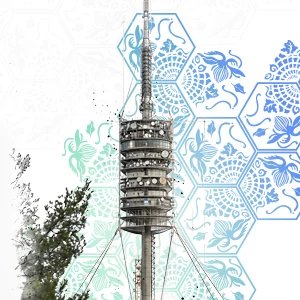
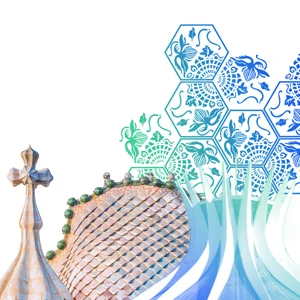
Student Week: chronological thumbs, 2023-27 range, updated copy
Claude-Session: https://claude.ai/code/session_01FyouQdSsVKyt1hEUqojYM4

diff --git a/src/data/projects/event-visual-identity.js b/src/data/projects/event-visual-identity.js
@@ -7,14 +7,14 @@ export default {
   slug: "event-visual-identity",
   name: "Student Week",
   disc: "Event Identity",
-  year: "2023-26",
+  year: "2023-27",
   client: CL,
   role: "Visual direction, concept evolution, identity system",
 
   idea: "Barcelona’s architecture as an identity system.",
   key: "Keep the structure fixed and change only the landmark, so every edition is new and still recognisable.",
   d1: "A recurring event identity built on Barcelona’s architecture. It began with single landmarks and grew into a broader system, keeping the same structural anchors so every edition is recognisably the same event.",
-  d2: "I set the concept and directed its evolution across four editions: Sagrada Família, Park Güell, Casa Batlló with the panot pattern, and a 2026 system that spans several landmarks.",
+  d2: "I set the concept and directed its evolution edition after edition: from Casa Batlló and the panot pattern to a 2026 system that spans several landmarks, and a first look at 2027.",
   out: "Four editions on one system. Each year keeps the structure and adds a new landmark.",
 
   stats: [
@@ -25,10 +25,10 @@ export default {
   cover: { src: "/home/grid/event.webp", alt: "Student Week identity based on Sagrada Família" },
   hero: { src: "/projects/event-identity/hero.webp", alt: "Student Week 2026 identity system" },
   thumbs: [
-    { src: "/home/list/event-1.webp", alt: "2023 — Sagrada Família" },
-    { src: "/home/list/event-2.webp", alt: "2024 — Park Güell" },
-    { src: "/home/list/event-3.webp", alt: "2025 — Casa Batlló + panot" },
-    { src: "/home/list/event-4.webp", alt: "2026 — Hotel W" },
+    { src: "/home/list/event-1.webp", alt: "2024 — Casa Batlló" },
+    { src: "/home/list/event-2.webp", alt: "2025 — Casa Batlló + panot" },
+    { src: "/home/list/event-3.webp", alt: "2026 — Torre de Collserola" },
+    { src: "/home/list/event-4.webp", alt: "2027 — Preview" },
   ],
 
   // Note: reordered vs. the prototype's shot order so the 16:9 recap video lands in the
